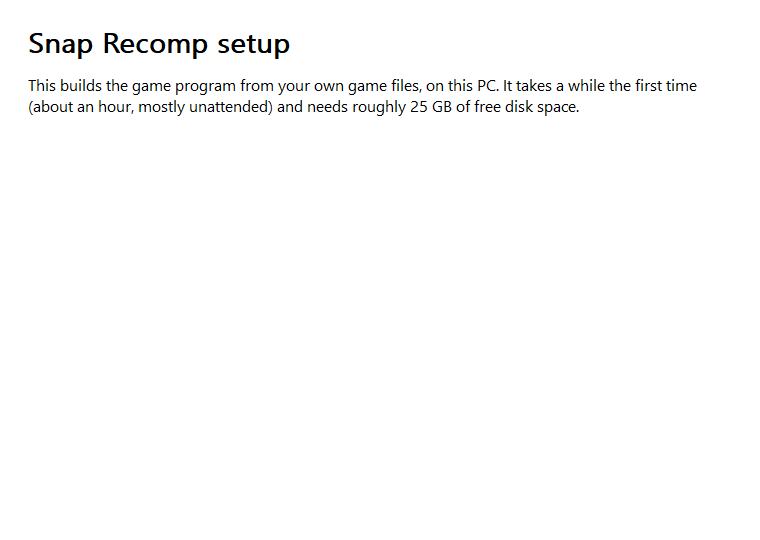
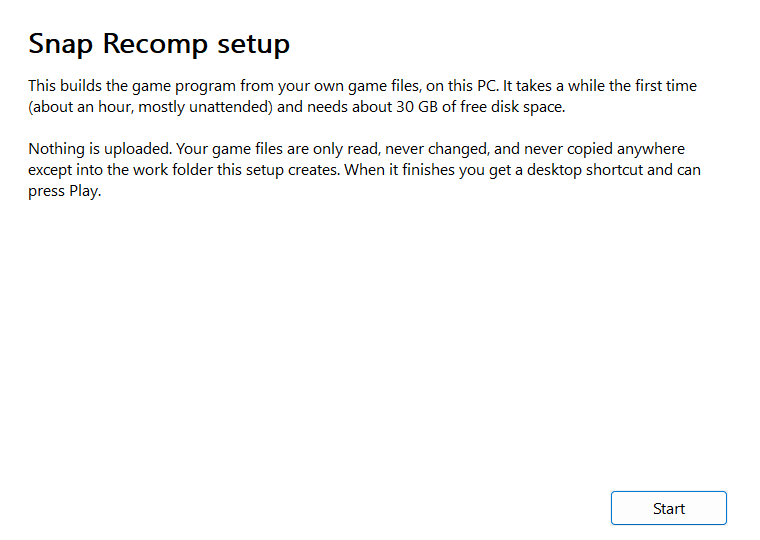
Setup wizard: license unticked by default, one disk figure, honest first-start time, fix missing buttons
The Microsoft license box starts unchecked and Build stays disabled until it is ticked.
Welcome page, README and options page now agree on about 30 GB while building (22 GB kept).
Done page says the first start translates shaders and takes 5 to 10 minutes.
Layout() redraws child controls (WS_CLIPCHILDREN + RDW_ALLCHILDREN) so Next, Back and Cancel stay visible.
Screenshots re-captured.

Changed region(s): [[0.0303, 0.2667, 0.9382, 0.3852], [0.4539, 0.1778, 0.7566, 0.2074], [0.8474, 0.9185, 0.9079, 0.9778]]

diff --git a/setup/setup_main.cpp b/setup/setup_main.cpp
@@ -292,7 +292,7 @@ static void Layout() {
     case P_WELCOME:
         t = L"Snap Recomp setup";
         b = L"This builds the game program from your own game files, on this PC. It takes a while the first time (about an hour, mostly "
-            L"unattended) and needs roughly 25 GB of free disk space.\r\n\r\n"
+            L"unattended) and needs about 30 GB of free disk space.\r\n\r\n"
             L"Nothing is uploaded. Your game files are only read, never changed, and never copied anywhere except into the work "
             L"folder this setup creates. When it finishes you get a desktop shortcut and can press Play.\r\n\r\n"
             L"You need your own copy of the game. Setup does not download, request or point to game files, keys or firmware.";
@@ -324,7 +324,7 @@ static void Layout() {
         break;
     case P_DONE:
         t = L"Snap Recomp is ready";
-        b = L"A shortcut is on your desktop and in the Start menu. The first start compiles shaders and can take a minute.";
+        b = L"A shortcut is on your desktop and in the Start menu. The first start translates the game's shaders and can take 5 to 10 minutes. Later starts are quick.";
         Show(GetDlgItem(g_wnd, ID_PLAY), true); Show(GetDlgItem(g_wnd, ID_CLOSE), true); Show(g_next, false);
         break;
     case P_ERROR:
@@ -348,7 +348,8 @@ static void Layout() {
     }
     SetWindowTextW(g_title, t.c_str());
     SetWindowTextW(g_body, b.c_str());
-    InvalidateRect(g_wnd, nullptr, TRUE);
+    // repaint the page and every child: a plain parent erase would wipe buttons that stay visible from the page before (the Next button was missing on the welcome page)
+    RedrawWindow(g_wnd, nullptr, nullptr, RDW_INVALIDATE | RDW_ERASE | RDW_ALLCHILDREN);
 }
 
 static void SetPage(int p) { g_page = p; Layout(); }
@@ -688,10 +689,9 @@ static void ShotMode(const wstring& dir) {
     SetWindowTextW(g_path, L"E:\\Pokemon Snap");
     SetWindowTextW(g_detect, L"Found 5 game file(s):\r\n   n-pokemonsnap.xci  (14.93 GB)  1.0.0\r\n   n-new_pokemon_snap_v196608.nsp  (2.1 GB)  2.0.0\r\n"
                              L"   n-new_pokemon_snap_v262144.nsp  (2.2 GB)  2.0.1\r\nUsing the 2.0.1 update with n-pokemonsnap.xci.\r\nOlder updates in this folder are ignored.\r\n"
-                             L"Keys: found next to the game files (read from there, never copied).\r\n\r\nDisk space:\r\n   Drive D: needs up to 31.2 GB while building and 17.0 GB afterwards; 4.8 TB free\r\n"
+                             L"Keys: found next to the game files (read from there, never copied).\r\n\r\nDisk space:\r\n   Drive D: needs up to 30.0 GB while building and 22.0 GB afterwards; 4.8 TB free\r\n"
                              L"The extracted game data stays on disk because the game reads it while it runs, so it cannot be deleted after the build.");
     g_scanOk = true;
-    SendMessageW(g_chk[0], BM_SETCHECK, BST_CHECKED, 0);
     AppendLog("Using n-new_pokemon_snap_v262144.nsp (version 2.0.1) with n-pokemonsnap.xci.");
     AppendLog("step elf done in 3s");
     AppendLog("step maps");
@@ -755,7 +755,7 @@ int WINAPI wWinMain(HINSTANCE hi, HINSTANCE, PWSTR, int) {
         shotDesk = CreateDesktopW(L"snap_setup_shot", nullptr, nullptr, 0, GENERIC_ALL, nullptr);
         if (shotDesk) SetThreadDesktop(shotDesk);
     }
-    g_wnd = CreateWindowExW(WS_EX_ACCEPTFILES, L"SnapRecompSetup", L"Snap Recomp setup", WS_OVERLAPPED | WS_CAPTION | WS_SYSMENU | WS_MINIMIZEBOX,
+    g_wnd = CreateWindowExW(WS_EX_ACCEPTFILES, L"SnapRecompSetup", L"Snap Recomp setup", WS_OVERLAPPED | WS_CAPTION | WS_SYSMENU | WS_MINIMIZEBOX | WS_CLIPCHILDREN,
                             CW_USEDEFAULT, CW_USEDEFAULT, r.right - r.left, r.bottom - r.top, nullptr, nullptr, hi, nullptr);
     DragAcceptFiles(g_wnd, TRUE);
     CreateUi();

diff --git a/builder/release/README.md b/builder/release/README.md
@@ -33,7 +33,7 @@ Run `SnapRecompSetup.exe` again later to Repair (rebuild with the same game file
 
 Time: the first build takes about an hour on a fast PC, most of it the Ghidra step (15 to 30 minutes) and the compile. The last step starts the new game once to check it reaches the title screen. That first start translates the game's shaders and takes about 8 minutes, so setup waits up to 20 minutes before it calls it a failure. A rebuild with the same game files takes a few minutes.
 
-Space: plan on about 31 GB free while building and about 17 GB afterwards. A raw dump needs about 16 GB more scratch space during extraction. The wizard shows the exact figure for your PC before you press Build.
+Space: plan on about 30 GB of free disk space. A finished install keeps about 22 GB (measured: 12 GB of game data and build files, 8 GB of build tools, 2 GB of shader cache). The wizard shows the exact figure for your PC before you press Build.
 
 Known issue: Windows SmartScreen may say "Windows protected your PC" because the exe is not code-signed (a certificate costs money, and this is a free project). Click "More info", then "Run anyway". The update signature (Ed25519) is checked by the updater, and the SHA-256 of each release is on the release page.
 
